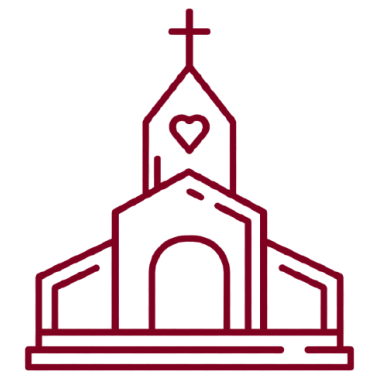
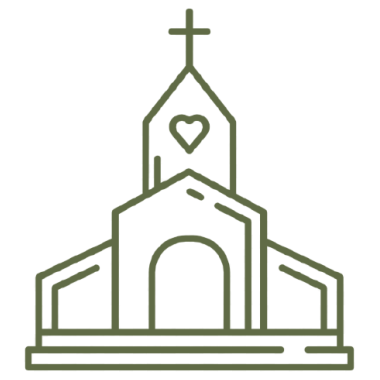
Refactor code structure for improved readability and maintainability

Changed region(s): [[0.0579, 0.0, 0.9553, 0.9842]]

diff --git a/styles.css b/styles.css
@@ -1,8 +1,9 @@
 /* --- Button Click Cue --- */
 :root {
-  --primary-color: #800020;
+  --primary-color: #606B46;
   --secondary-color: #4a4a4a;
   --background-color: #f4efeb;
+  --loader-background-color: #F5F1E8;
   --dark-color: #2c2c2c;
   --text-color: #555;
   --heading-font: 'Playfair Display', serif;
@@ -10,7 +11,7 @@
   --body-font: 'Montserrat', sans-serif;
   --transition: all 0.3s ease;
   --border-radius: 8px;
-  --loader-accent-color: #fff;
+  --loader-accent-color: #2B2B2B;
 }
 
 html,
@@ -58,7 +59,6 @@ body {
   position: relative;
 }
 
-#countdown::before,
 #event-details::before,
 #event-details::after,
 #gallery::before,
@@ -76,17 +76,10 @@ body {
   transition: opacity 0.75s ease, transform 0.75s ease;
 }
 
-#countdown::before {
-  --deco-y: -30%;
-  left: -30px;
-  transform: translateY(var(--deco-y)) translateY(18px);
-  background-image: url('./images/deco2.png');
-}
-
 #event-details::before {
   --deco-y: 0%;
   top: 0;
-  right: -15px;
+  right: -157px;
   transform: translateY(var(--deco-y)) translateY(18px);
   background-image: url('./images/deco3.png');
 }
@@ -95,37 +88,32 @@ body {
   --deco-y: 0%;
   top: auto;
   bottom: 0;
-  left: 0px;
+  left: -30px;
   transform: translateY(18px);
   background-image: url('./images/deco4.png');
 }
 
 #gallery::before {
   --deco-y: -100%;
-  left: 0px;
+  left: -50px;
   transform: translateY(var(--deco-y)) translateY(18px);
-  background-image: url('./images/deco6.png');
+  background-image: url('./images/deco5.png');
 }
 
 #registry::before {
   --deco-y: 0%;
   right: -175px;
   transform: translateY(var(--deco-y)) translateY(18px);
-  background-image: url('./images/deco5.png');
+  background-image: url('./images/deco6.png');
 }
 
 @media (max-width: 767.98px) {
-  #countdown::before,
   #event-details::before,
   #event-details::after,
   #gallery::before,
   #registry::before {
     width: clamp(140px, 44vw, 200px);
     height: clamp(140px, 44vw, 200px);
-  }
-
-  #countdown::before {
-    left: -18px;
   }
 
   #event-details::before {
@@ -145,7 +133,6 @@ body {
   }
 }
 
-#countdown.deco-visible::before,
 #event-details.deco-visible::before,
 #event-details.deco-visible::after,
 #gallery.deco-visible::before,
@@ -154,7 +141,6 @@ body {
   transform: translateY(var(--deco-y)) translateY(0);
 }
 
-body.loading #countdown::before,
 body.loading #event-details::before,
 body.loading #event-details::after,
 body.loading #gallery::before,
@@ -273,7 +259,7 @@ a:hover {
   top: 0;
   width: 50.5%;
   height: 100%;
-  background-color: var(--primary-color);
+  background-color: var(--loader-background-color);
   transition: transform 1.2s cubic-bezier(0.8, 0, 0.2, 1);
   z-index: 9998;
 }
@@ -778,15 +764,15 @@ a:hover {
 /* ========== ANIMATED MOUSE SCROLL ========== */
 .mouse-scroll {
   position: absolute;
-  bottom: 5.5rem;
+  bottom: 7.5rem;
   left: 50%;
   transform: translateX(-50%);
   z-index: 10;
 }
 
 .mouse {
-  width: 24px;
-  height: 40px;
+  width: 30px;
+  height: 50px;
   border: 2px solid rgb(255, 255, 255);
   border-radius: 12px;
   position: relative;
@@ -819,9 +805,9 @@ a:hover {
 
 .scroll-text {
   color: rgb(255, 255, 255);
-  font-size: 0.5rem;
+  font-size: 0.6rem;
   letter-spacing: 2px;
-  margin-top: 1rem;
+  margin-top: 0.5rem;
   text-align: center;
   animation: pulse 2s infinite;
 }
@@ -871,7 +857,7 @@ a:hover {
 }
 
 .event-detail-img {
-  width: 180px;
+  /* width: 180px; */
   height: 180px;
   /* border-radius: 50%; */
   object-fit: cover;
@@ -940,20 +926,20 @@ a:hover {
   border: 2px solid rgba(74, 74, 74, 0.18);
 }
 
+#dress-code .dot-green {
+  background-color: #2F5D50;
+}
+
 #dress-code .dot-burgundy {
-  background-color: #6b1f2f;
+  background-color: #6D2E2E;
 }
 
-#dress-code .dot-champagne {
-  background-color: #d7bf9f;
+#dress-code .dot-terracotta {
+  background-color: #C47A5A;
 }
 
-#dress-code .dot-sage {
-  background-color: #9ba68a;
-}
-
-#dress-code .dot-navy {
-  background-color: #344a66;
+#dress-code .dot-gold {
+  background-color: #C9A227;
 }
 
 #dress-code .dress-inspire-btn {
@@ -1171,7 +1157,7 @@ a:hover {
   left: 0;
   width: 100%;
   height: 100%;
-  background: rgba(200, 157, 156, 0.7);
+  background: rgba(96, 107, 70, 0.7);
   display: flex;
   flex-direction: column;
   align-items: center;

diff --git a/index.html b/index.html
@@ -180,7 +180,7 @@
                 <!-- Reception -->
                 <div class="col-lg-5" data-aos="fade-left" data-aos-delay="200">
                     <div class="event-detail-card text-center">
-                        <img src="images/reception.png" alt="Reception icon" class="event-detail-img">
+                        <img src="images/quinta-logo.png" alt="Reception icon" class="event-detail-img">
                         <h3>Recepción</h3>
                         <h4>Quinta del Pilar</h4>
                         <p>Av. Oscar A. Romero, #2, Zaragoza, El Salvador</p>
@@ -279,10 +279,10 @@
 
                 <p class="dress-colors-subtitle">Inspírate utilizando estos colores:</p>
                 <div class="dress-palette" aria-label="Colores recomendados para el dress code">
+                    <span class="dress-color-dot dot-green" aria-hidden="true"></span>
                     <span class="dress-color-dot dot-burgundy" aria-hidden="true"></span>
-                    <span class="dress-color-dot dot-champagne" aria-hidden="true"></span>
-                    <span class="dress-color-dot dot-sage" aria-hidden="true"></span>
-                    <span class="dress-color-dot dot-navy" aria-hidden="true"></span>
+                    <span class="dress-color-dot dot-terracotta" aria-hidden="true"></span>
+                    <span class="dress-color-dot dot-gold" aria-hidden="true"></span>
                 </div>
 
                 <p class="dress-restriction-note">Restricción de color: el blanco y tonos similares están reservados para la novia.</p>
